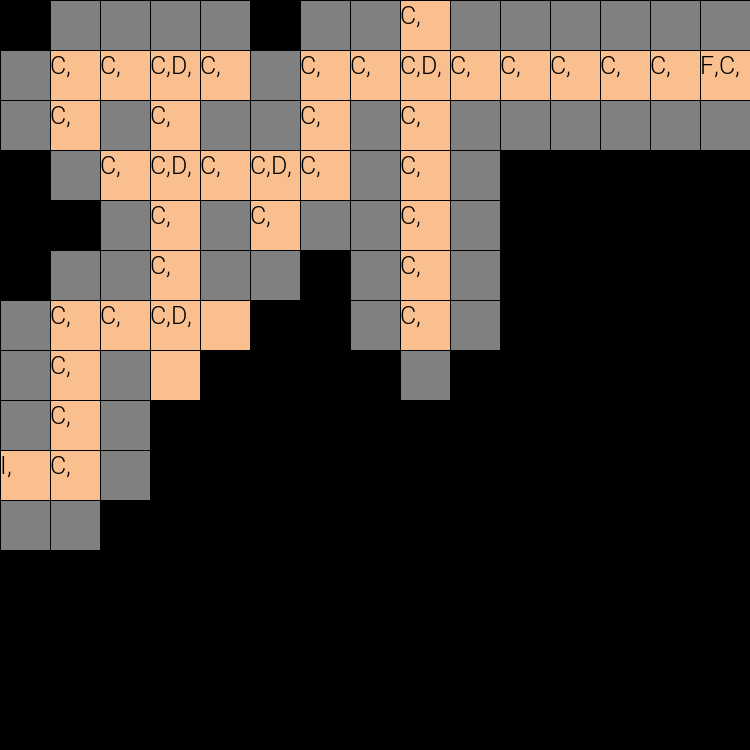
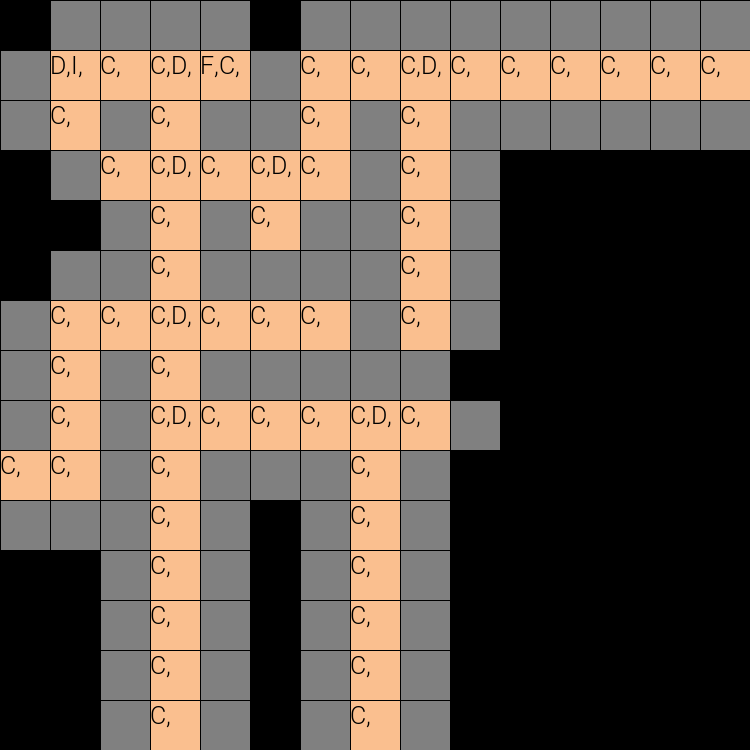
Deep

diff --git a/Practica 1/GameV3.py b/Practica 1/GameV3.py
@@ -81,9 +81,11 @@ class Wall(object):
 os.environ["SDL_VIDEO_CENTERED"] = "1"
 pygame.init()
 
-agent1 = Agent("Human", TypeAgent.humano, InitalCords=(10, 'A'), stageText=readFile("lab3P2.txt"),
-               FinalCords=(2, 'O'),
+
+agent1 = Agent("Human", TypeAgent.humano, InitalCords=(2, 'B'), stageText=readFile("lab1.txt"),
+               FinalCords=(2, 'E'),
                Hide=True, PriorMovements=[Mov.Up, Mov.Down, Mov.Left, Mov.Right])
+
 
 # agent1 = Agent("pulpo", TypeAgent.pulpo, InitalCords=(1, 'B'), stageText=readFile("lab2.txt"), FinalCords=(15, 'A'))
 # agent1 = Agent("mono", TypeAgent.mono, InitalCords=(1, 'B'), stageText=readFile("lab2.txt"), FinalCords=(15, 'A'))

diff --git a/Practica 1/LibsGameV3/MazeAgentV3.py b/Practica 1/LibsGameV3/MazeAgentV3.py
@@ -424,9 +424,3 @@ def giveCords(tuplaNumLetter):
 def giveNumLetter(Coords):
     return (Coords[0] + 1), chr(Coords[1] + 65)
 
-
-agent1 = Agent("Human", TypeAgent.humano, InitalCords=(2, 'B'), stageText=readFile("../lab1.txt"),
-               FinalCords=(2, 'E'),
-               Hide=True, PriorMovements=[Mov.Up, Mov.Down, Mov.Left, Mov.Right])
-
-agent1.depthFirstSearch()
